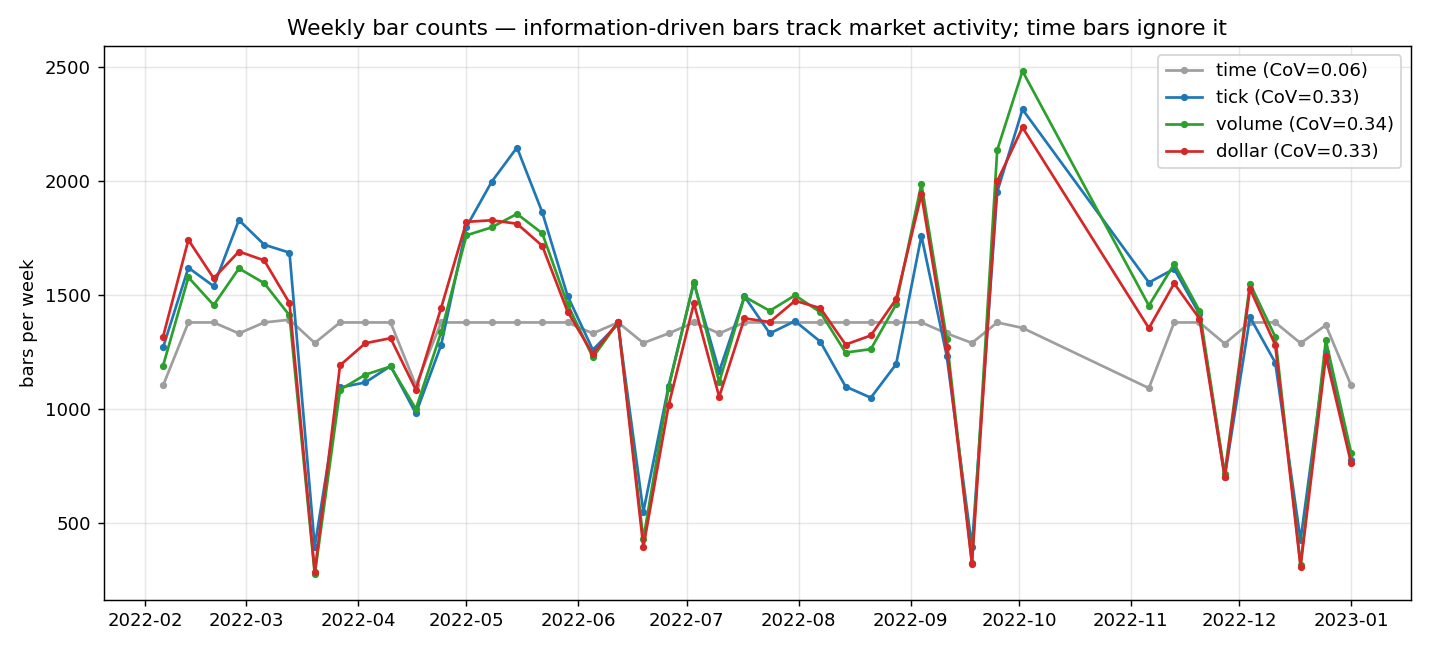
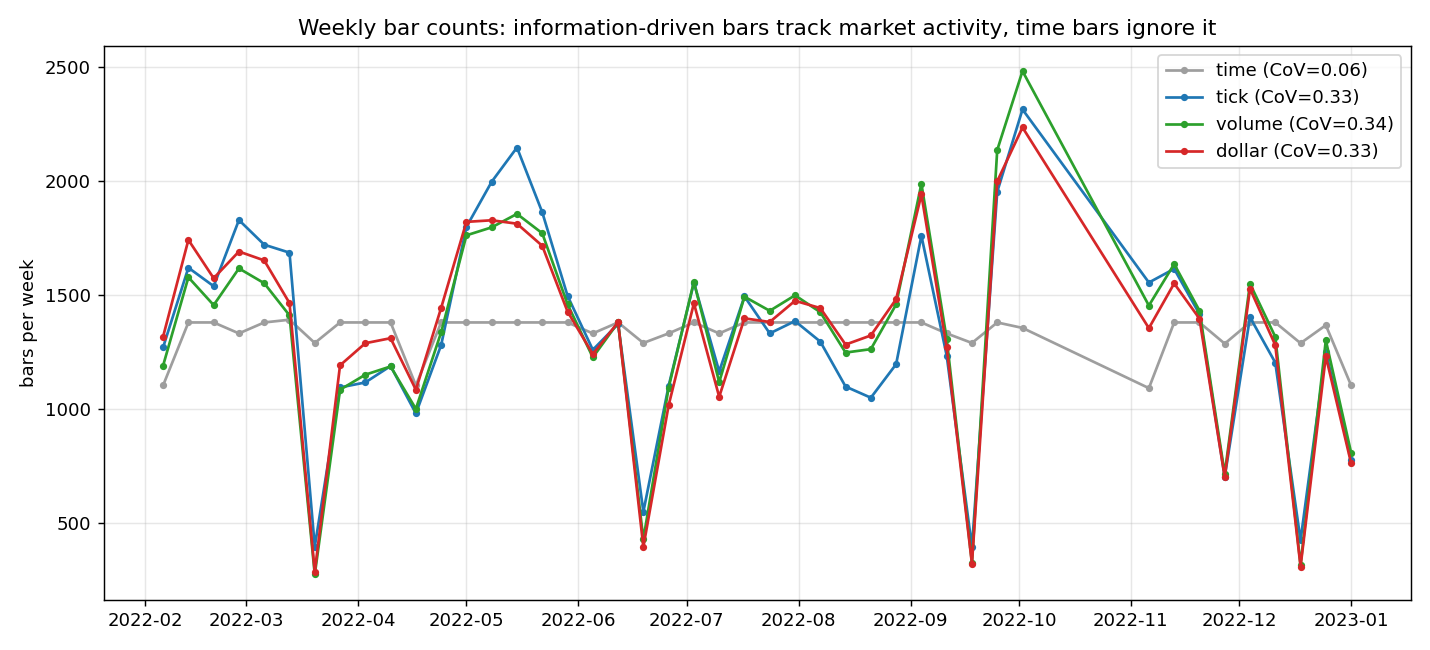
docs: module docstrings, CI badge, and plainer Results prose

Changed region(s): [[0.1846, 0.0308, 0.8615, 0.0615]]

diff --git a/analysis/bar_statistics.py b/analysis/bar_statistics.py
@@ -2,16 +2,16 @@
 Statistical comparison of bar types (AFML Chapter 2)
 ====================================================
 
-Empirical study of four sampling schemes — time, tick, volume and dollar bars —
+Empirical study of four sampling schemes (time, tick, volume and dollar bars)
 on real CME E-mini S&P 500 (ES) tick data, following *Advances in Financial
 Machine Learning* (Lopez de Prado, Chapter 2). It quantifies the properties that
 matter for downstream machine learning:
 
-    1. Sampling adaptivity            — bars per day vs. information flow
-    2. Sampling-frequency stability   (Ex. 2.1.a) — weekly bar counts
-    3. Serial correlation of returns  (Ex. 2.1.b) — lag-1 autocorrelation
-    4. Variance stationarity          (Ex. 2.1.c) — variance of monthly variances
-    5. Return normality               (Ex. 2.1.d) — Jarque-Bera, skew, kurtosis
+    1. Sampling adaptivity            (bars per day vs. information flow)
+    2. Sampling-frequency stability   (Ex. 2.1.a): weekly bar counts
+    3. Serial correlation of returns  (Ex. 2.1.b): lag-1 autocorrelation
+    4. Variance stationarity          (Ex. 2.1.c): variance of monthly variances
+    5. Return normality               (Ex. 2.1.d): Jarque-Bera, skew, kurtosis
 
 Methodology
 -----------
@@ -222,7 +222,7 @@ def plot_weekly_counts(bars: dict[str, pd.DataFrame], path: Path) -> None:
         cov = weekly.std() / weekly.mean()
         ax.plot(weekly.index, weekly.values, marker="o", ms=3, color=COLORS[b],
                 label=f"{b} (CoV={cov:.2f})")
-    ax.set_title("Weekly bar counts — information-driven bars track market activity; "
+    ax.set_title("Weekly bar counts: information-driven bars track market activity, "
                  "time bars ignore it")
     ax.set_ylabel("bars per week")
     ax.legend()
@@ -263,18 +263,18 @@ def main() -> None:
 
     RESULTS_DIR.mkdir(exist_ok=True)
 
-    logger.info("Pass 1/2 — calibrating thresholds over %d months...", len(args.months))
+    logger.info("Pass 1/2: calibrating thresholds over %d months...", len(args.months))
     thresholds, available = scan_thresholds(args.symbol, args.months, args.freq)
     if not available:
         logger.error("No data files matched. Aborting.")
         return
 
-    logger.info("Pass 2/2 — building bars...")
+    logger.info("Pass 2/2: building bars...")
     bars = build_all(args.symbol, available, args.freq, thresholds)
 
     table = summary_table(bars)
     pd.set_option("display.float_format", lambda x: f"{x:,.4f}")
-    print(f"\n=== AFML Chapter 2 — bar statistics ({args.symbol}, {len(available)} months 2022) ===\n")
+    print(f"\n=== AFML Chapter 2: bar statistics ({args.symbol}, {len(available)} months 2022) ===\n")
     print(table.to_string())
     table.to_csv(RESULTS_DIR / "bar_statistics.csv")
 

diff --git a/src/etf_trick.py b/src/etf_trick.py
@@ -1,3 +1,24 @@
+"""
+ETF Trick
+=========
+
+Splices a set of disjoint futures contracts into a single continuous, tradable
+price series, following the "ETF Trick" from *Advances in Financial Machine
+Learning* (Lopez de Prado, Section 2.4).
+
+The output series K tracks the value of an initial $1 allocation as it is rolled
+from one contract to the next without injecting artificial price gaps. At each
+roll the P&L is taken from Close minus Open (instead of Close minus Close) and
+the holdings h are rebalanced to keep dollar exposure constant. A Numba core
+performs the recursive update of K and h. Both fixed and time-varying weights
+are supported.
+
+Dependencies:
+    - numpy
+    - pandas
+    - numba (JIT compilation of the recursive core engine)
+"""
+
 import numpy as np
 import pandas as pd
 from numba import njit

diff --git a/src/allocation.py b/src/allocation.py
@@ -1,3 +1,22 @@
+"""
+PCA risk allocation
+====================
+
+Computes portfolio weights by distributing risk across the principal components
+(eigenportfolios) of the covariance matrix, following the spectral allocation
+method in *Advances in Financial Machine Learning* (Lopez de Prado, Section
+2.4.2).
+
+Given a target volatility and a desired split of risk across components, the
+weights are obtained by scaling each eigenportfolio by the square root of its
+allocated variance and projecting back into the asset space. By default all risk
+is placed on the lowest-variance component, a common starting point for
+mean-reversion baskets.
+
+Dependencies:
+    - numpy
+"""
+
 import numpy as np
 from numpy.typing import NDArray
 from typing import Optional

diff --git a/README.md b/README.md
@@ -1,5 +1,7 @@
 # ML Finance
 
+[![CI](https://github.com/Alzak2208/quant-futures-pipeline/actions/workflows/ci.yml/badge.svg)](https://github.com/Alzak2208/quant-futures-pipeline/actions/workflows/ci.yml)
+
 Implementation of quantitative finance techniques from *Advances in Financial Machine Learning* (Marcos Lopez de Prado), applied to CME futures tick data.
 
 ## Project Structure
@@ -17,52 +19,56 @@ Implementation of quantitative finance techniques from *Advances in Financial Ma
 ├── data/                      # Parquet tick data (not versioned)
 ├── docs/                      # Reference material
 ├── tests/                     # Unit tests
-├── requirements.txt
-└── pyproject.toml
+├── environment.yml
+└── pyproject.toml             # Single source of dependencies & build config
 ```
 
 ## Pipeline
 
-1. **Data Ingestion** — Load tick-level Parquet files (Databento format) via `data_loader`
-2. **Cleaning** — Filter trades, detect contract rolls via `data_cleaner_for_bars`
-3. **Bar Sampling** — Transform ticks into information-driven bars:
+1. **Data Ingestion**: Load tick-level Parquet files (Databento format) via `data_loader`
+2. **Cleaning**: Filter trades, detect contract rolls via `data_cleaner_for_bars`
+3. **Bar Sampling**: Transform ticks into information-driven bars:
    - Standard: Tick, Volume, Dollar bars
    - Advanced: Imbalance bars (Tick/Volume/Dollar) with EWMA thresholds
    - Advanced: Runs bars (Tick/Volume/Dollar) for institutional flow detection
-4. **ETF Trick** — Splice multiple futures into a continuous synthetic series
-5. **Allocation** — PCA-based risk allocation across eigenportfolios
+4. **ETF Trick**: Splice multiple futures into a continuous synthetic series
+5. **Allocation**: PCA-based risk allocation across eigenportfolios
 
-## Results — do information-driven bars actually deliver?
+## Results: do information-driven bars actually deliver?
 
-Following *AFML* Chapter 2, I tested whether information-driven bars produce returns with better statistical properties than ordinary time bars, on **~105 M E-mini S&P 500 (ES) trades across ten months of 2022**. Every scheme is calibrated to the same average frequency (~58,900 bars) so the comparison reflects sampling *quality*, not quantity. Reproduce end-to-end with:
+Following AFML Chapter 2, I checked whether information-driven bars give returns with better statistical properties than ordinary time bars. The test runs on ~105M E-mini S&P 500 (ES) trades across ten months of 2022. Every scheme is calibrated to the same average frequency (~58,900 bars), so the comparison is about sampling quality, not quantity. Reproduce the figures and table below with:
 
 ```bash
-python -m analysis.bar_statistics      # writes the figures and table below to results/
+python -m analysis.bar_statistics
 ```
 
 ### 1. Sampling adapts to information flow
 
 ![Weekly bar counts](results/bar_counts_weekly.png)
 
-Time bars emit a near-constant number of bars every week (coefficient of variation just **0.06**) regardless of what the market is doing — they oversample quiet periods and undersample bursts of activity. Information-driven bars instead expand to ~2,500/week during the volatile Sep–Oct 2022 market bottom and contract below ~400 in calm weeks. Sampling follows information, which is the property we want *before* feeding a model.
+Time bars emit a near-constant number of bars per week (coefficient of variation 0.06) whatever the market does, so they oversample quiet periods and undersample bursts. Information-driven bars expand to ~2,500/week during the volatile Sep-Oct 2022 bottom and drop below ~400 in calm weeks. Sampling follows information, which is what we want before fitting a model.
 
 ### 2. Returns are closer to Gaussian
 
 ![Standardized return distributions](results/return_distributions.png)
 
-| bar type | excess kurtosis ↓ | Jarque–Bera ↓ | skew | lag-1 autocorr | monthly-var CoV ↓ |
-|----------|------------------:|--------------:|-----:|---------------:|------------------:|
-| time     | 45.3 | 5,035,015 | −0.61 | −0.0104 | 0.31 |
+Lower is better for kurtosis, Jarque-Bera and the variance-stability column.
+
+| bar type | excess kurtosis | Jarque-Bera | skew | lag-1 autocorr | monthly-var CoV |
+|----------|----------------:|------------:|-----:|---------------:|----------------:|
+| time     | 45.3 | 5,035,015 | -0.61 | -0.0104 | 0.31 |
 | tick     | **27.7** | **1,878,181** | 0.34 | 0.0028 | **0.26** |
-| volume   | 36.0 | 3,178,764 | 0.39 | **−0.0008** | 0.30 |
-| dollar   | 32.0 | 2,514,354 | **−0.09** | 0.0022 | 0.29 |
+| volume   | 36.0 | 3,178,764 | 0.39 | **-0.0008** | 0.30 |
+| dollar   | 32.0 | 2,514,354 | **-0.09** | 0.0022 | 0.29 |
 
-- **All three information-driven schemes beat time bars on normality** (lower Jarque–Bera *and* lower kurtosis), confirming the AFML thesis on real data.
-- **Dollar bars are the most symmetric** (skew ≈ 0) and the best all-rounder — which is why they are the default for everything downstream.
-- **Variance is more stationary** month-to-month for tick/dollar bars (lower CoV).
-- **Serial correlation is negligible for every scheme.** On an instrument as liquid as the E-mini there is little microstructure noise left to remove at this frequency — the gain here is in the *distribution*, not in autocorrelation. Reporting this honestly matters more than overselling it.
+A few things stand out:
 
-> The heavy tails that remain (excess kurtosis ≫ 0) are **not** data artifacts: the largest bar returns line up with scheduled macro releases — e.g. the **+2.7 % spike on 2022-12-13** at the CPI print — i.e. genuine information events, not bad ticks.
+- The three information-driven schemes all beat time bars on normality (lower Jarque-Bera and lower kurtosis), which is exactly the AFML claim, here on real data.
+- Dollar bars are the most symmetric (skew close to 0) and the best all-rounder, so they are the default for everything downstream.
+- Variance is more stationary month to month for tick and dollar bars.
+- Serial correlation is negligible for every scheme. On an instrument as liquid as the E-mini there is almost no microstructure noise left to remove at this frequency, so the gain shows up in the distribution, not in autocorrelation. I would rather report that than oversell it.
+
+The heavy tails that remain (kurtosis well above 0) are not data errors. The largest bar returns line up with scheduled macro releases, for example the +2.7% jump on 2022-12-13 at the CPI print, i.e. genuine information events.
 
 ## Instruments
 
@@ -74,6 +80,12 @@ ES (S&P 500), NQ (Nasdaq 100), YM (Dow Jones), CL (Crude Oil), RB (Gasoline), ZN
 # Create and activate the conda environment (installs all deps + editable package)
 conda env create -f environment.yml
 conda activate proj_ml_fin
+```
+
+Or with plain pip (Python >= 3.10):
+
+```bash
+pip install -e ".[dev]"
 ```
 
 ## Tests
